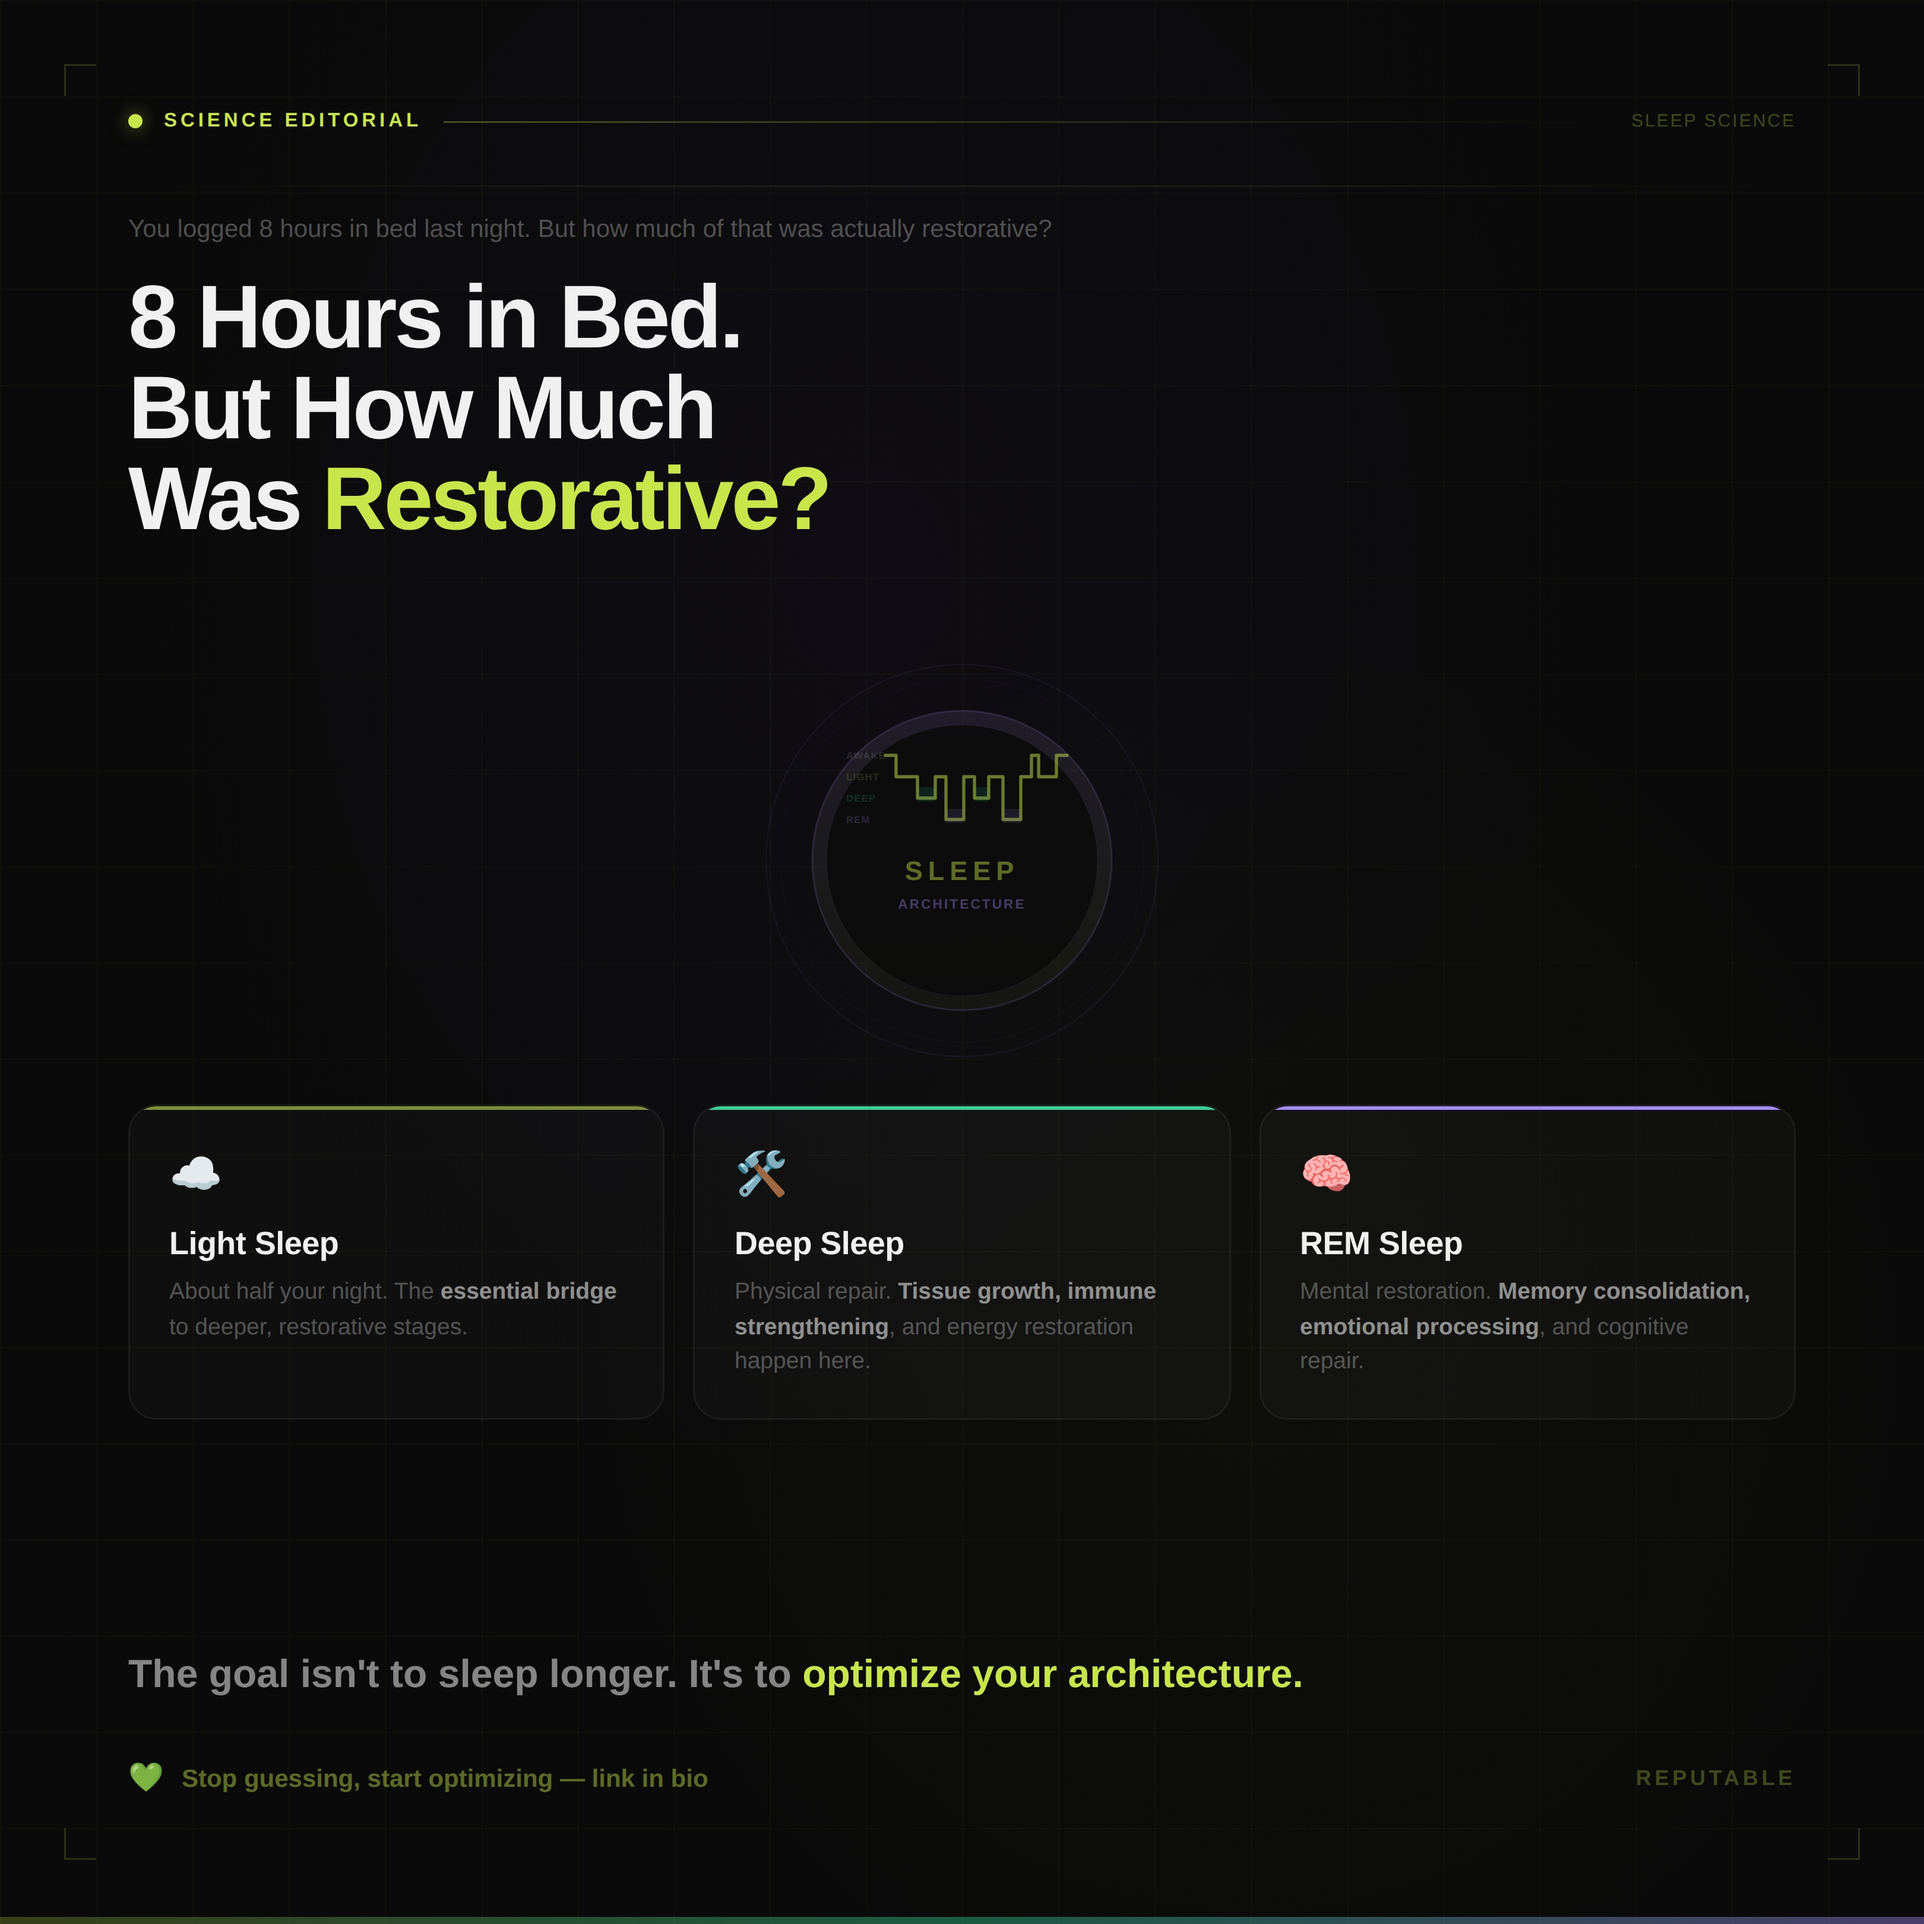
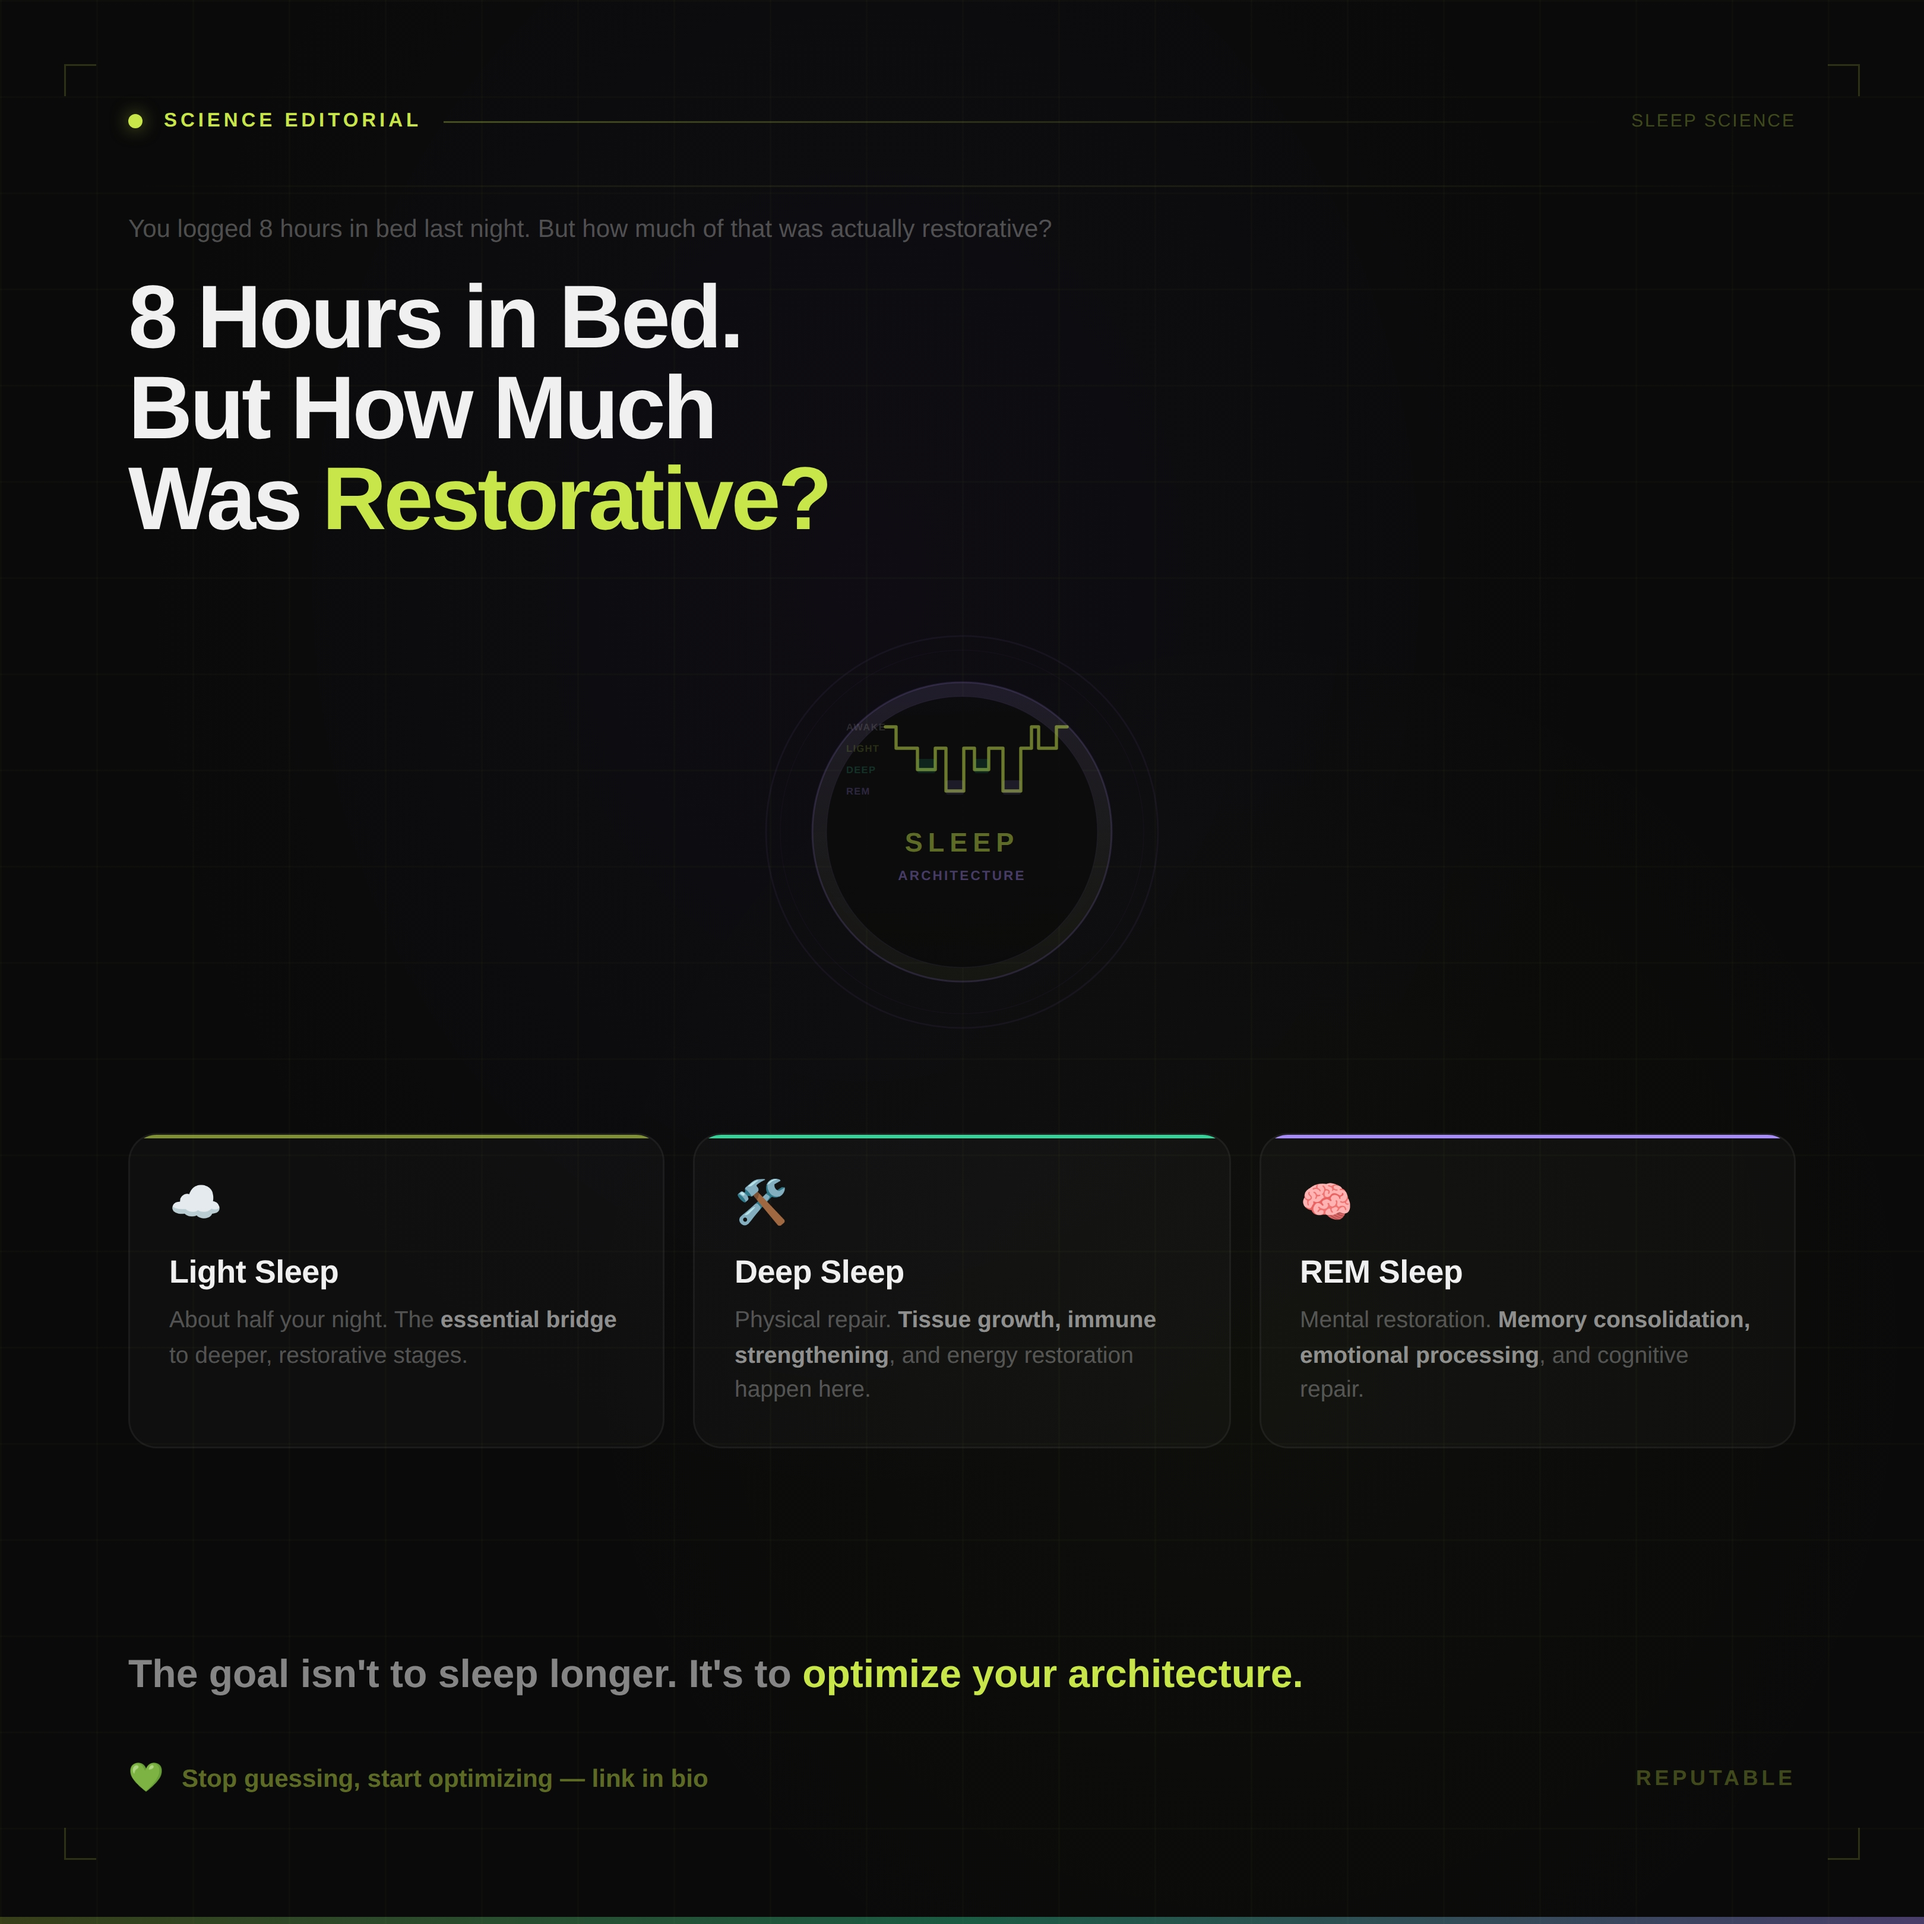
Balance spacing around sleep architecture circle
Move circle up and pillars down so the gap above and below
the circle illustration are roughly equal.

https://claude.ai/code/session_01TfrrBTyPYsf3Z7Zsrx7aQ5

diff --git a/sleep-architecture-post.html b/sleep-architecture-post.html
@@ -119,7 +119,7 @@
   /* ── Circle illustration ─────────────────────── */
   .seal-area {
     position: absolute;
-    top: 368px;
+    top: 352px;
     left: 50%;
     transform: translateX(-50%);
     width: 230px;
@@ -132,7 +132,7 @@
   /* ── Three pillars ─────────────────────────────── */
   .pillars {
     position: absolute;
-    top: 620px;
+    top: 636px;
     left: 72px;
     right: 72px;
     display: flex;
